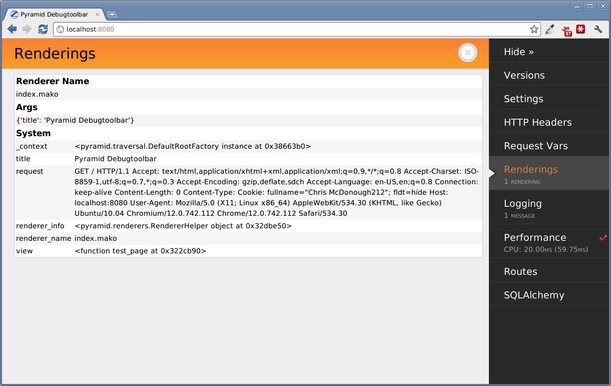
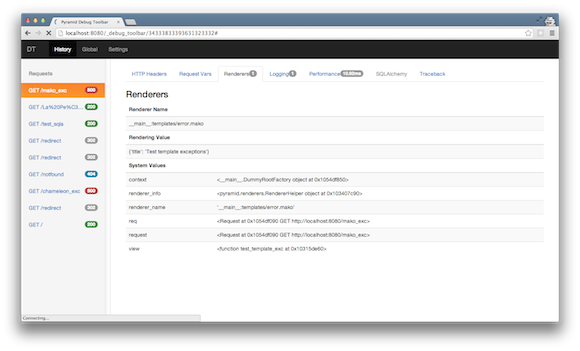
Updated docs and screenshots

diff --git a/docs/index.rst b/docs/index.rst
@@ -240,7 +240,8 @@ will appear over your application's HTML:
 
 .. image:: toolbar-closed.png
 
-If you click on the "Pyramid DT" logo, the toolbar will expand:
+If you click on the "Pyramid DT" logo, a new target window will open
+with your current request highlighted and all of your configured panels loaded.
 
 .. image:: toolbar-open.png
 
@@ -326,6 +327,14 @@ Displays SQL queries made by SQLAlchemy by the current page along with timing
 information.
 
 .. image:: sqla.png
+
+Provides the ability to re-run the query using the SELECT link.
+
+.. image:: sqla-select.png
+
+Provides the ability to get more detail about the query using the EXPLAIN link.
+
+.. image:: sqla-explain.png
 
 Introspection
 ~~~~~~~~~~~~~
